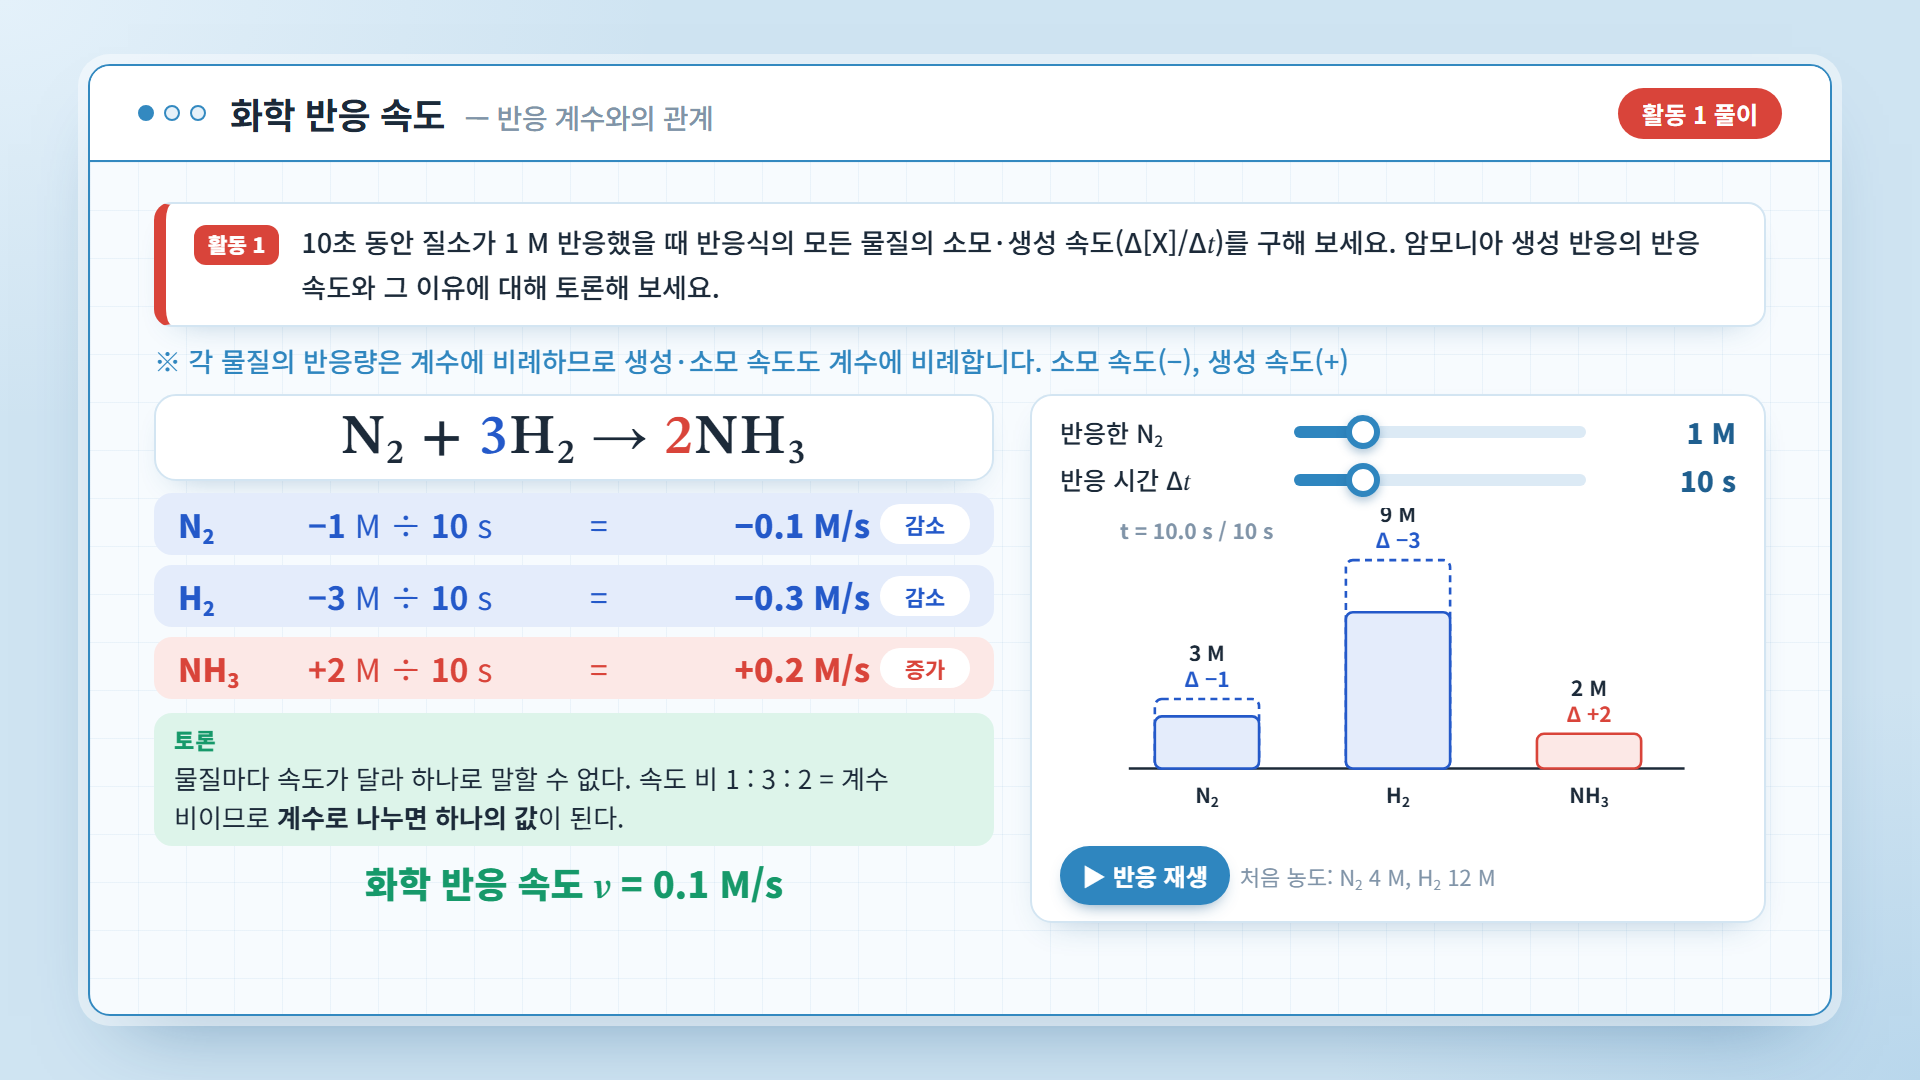
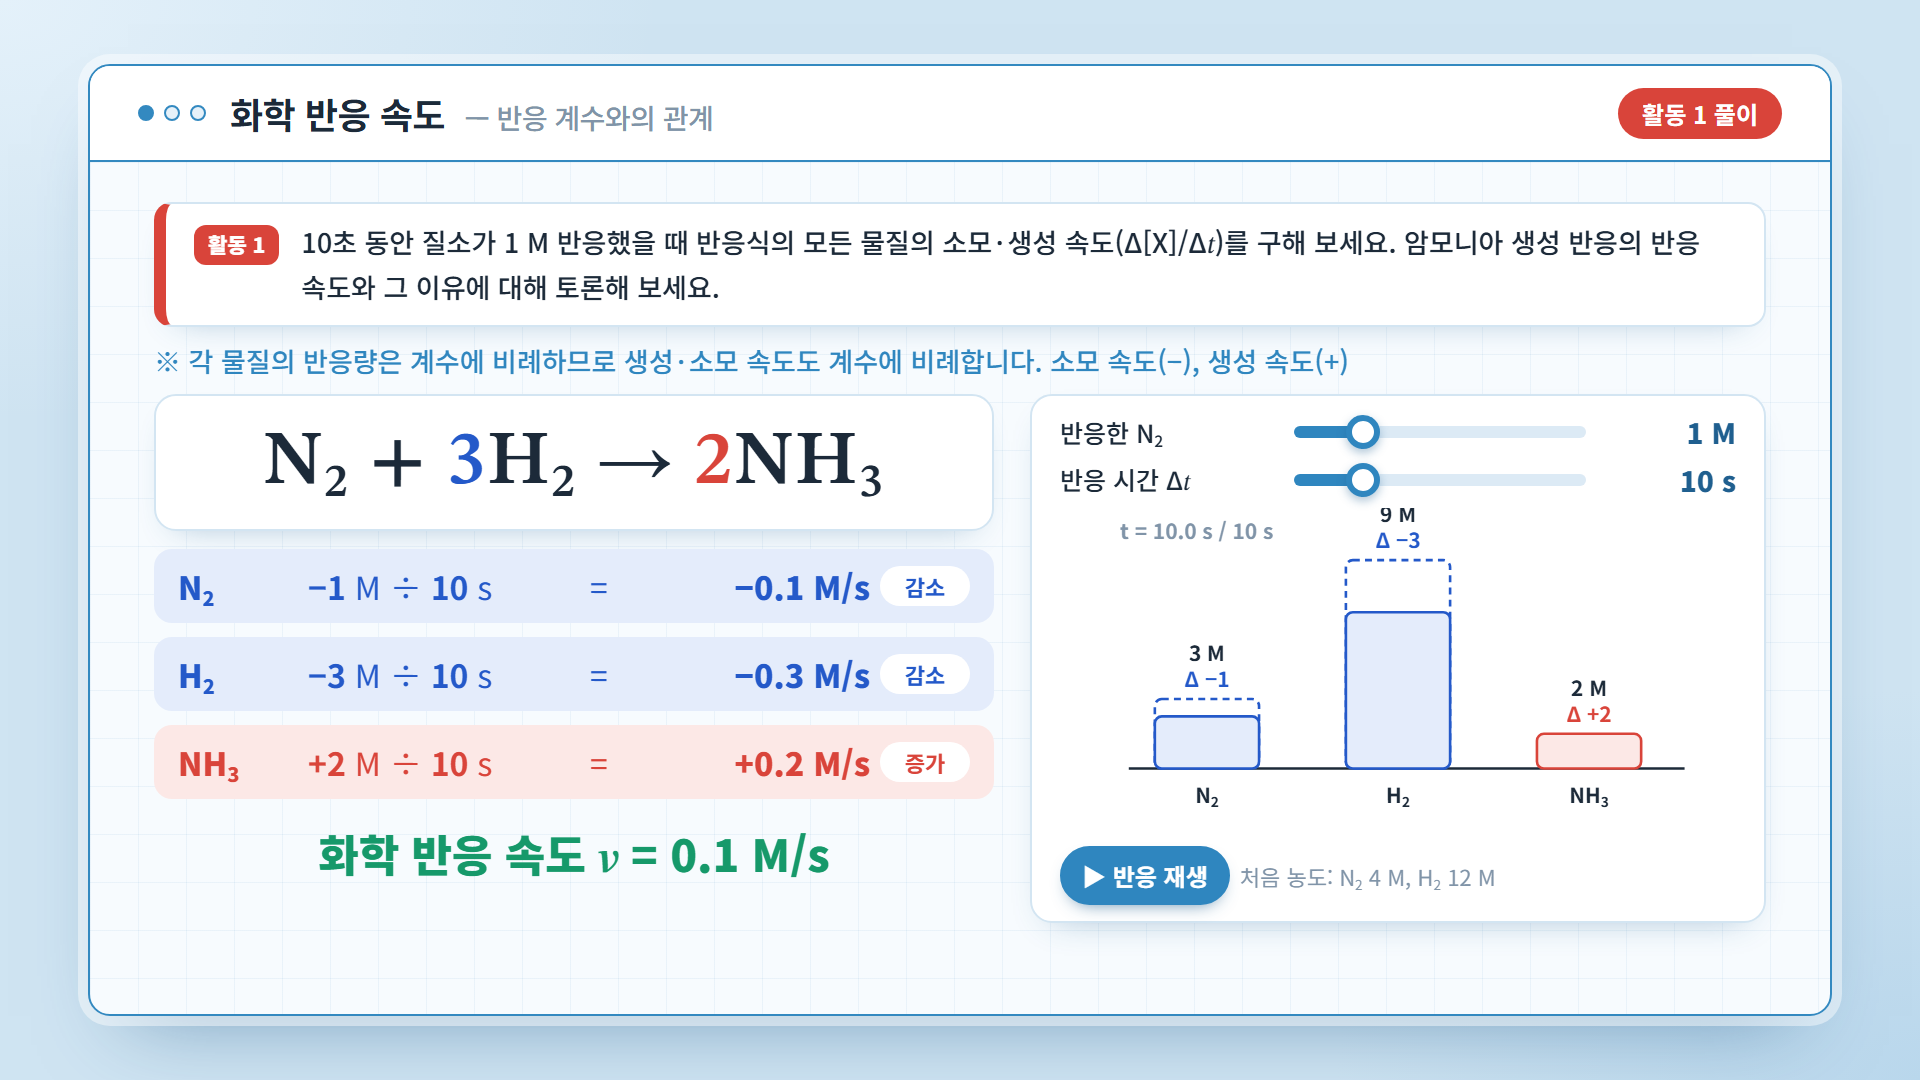
reaction-rate: 활동 1 풀이에서 토론 답 삭제 (v = 0.1 유지)

Changed region(s): [[0.0625, 0.3667, 0.5312, 0.8556]]

diff --git a/reaction-rate-lesson/index.html b/reaction-rate-lesson/index.html
@@ -203,9 +203,6 @@
   .rrow .mini { font-size: 22px; font-weight: 700; text-align: center; border-radius: 999px; padding: 4px 0; background: #fff; }
   .ctlcard { padding: 22px 28px; display: flex; flex-direction: column; gap: 14px; }
   #act1-a .nh3-grid { margin-top: 14px; }
-  #act1-a .eqcard { font-size: 56px; padding: 6px; }
-  #act1-a .rrows { gap: 10px; margin-top: 12px; }
-  #act1-a .rrow { padding: 8px 24px; }
   #act1-a .ctlcard { padding: 16px 28px; gap: 8px; }
 
   /* ---------- slide 7 ---------- */
@@ -532,8 +529,7 @@
             <div class="rrow cons" data-step="2 rise"><span class="sp">H<sub>2</sub></span><span><b data-nh3="d1">−3</b> M ÷ <b data-nh3="t">10</b> s</span><span>=</span><span class="res cons" data-nh3="r1">−0.3 M/s</span><span class="mini cons">감소</span></div>
             <div class="rrow prod" data-step="3 rise"><span class="sp">NH<sub>3</sub></span><span><b data-nh3="d2">+2</b> M ÷ <b data-nh3="t">10</b> s</span><span>=</span><span class="res prod" data-nh3="r2">+0.2 M/s</span><span class="mini prod">증가</span></div>
           </div>
-          <div class="find f3" data-step="4 rise" style="margin-top:14px;padding:10px 20px"><span class="t">토론</span>물질마다 속도가 달라 하나로 말할 수 없다. 속도 비 1 : 3 : 2 = 계수 비이므로 <b>계수로 나누면 하나의 값</b>이 된다.</div>
-          <p data-step="5 pop" style="margin-top:10px;font-size:36px;font-weight:900;text-align:center;color:var(--green)">화학 반응 속도 <i class="m">v</i> = <span data-nh3="v">0.1 M/s</span></p>
+          <p data-step="4 pop" style="margin-top:22px;font-size:44px;font-weight:900;text-align:center;color:var(--green)">화학 반응 속도 <i class="m">v</i> = <span data-nh3="v">0.1 M/s</span></p>
         </div>
         <div class="card ctlcard">
           <div class="slider"><span>반응한 N<sub>2</sub></span><input type="range" id="nh3-dn" min="0.5" max="3" step="0.5" value="1"><output id="nh3-dn-o">1 M</output></div>
@@ -544,7 +540,7 @@
       </div>
     </div>
   </div>
-  <aside>[활동 1 풀이] 클릭할 때마다 N₂, H₂, NH₃의 속도, 토론 정리, 반응 속도 순서로 나옵니다. 오른쪽 슬라이더로 반응량과 시간을 바꾸면 왼쪽 계산이 함께 바뀌어요. 어떤 값을 넣어도 속도 비는 항상 1 : 3 : 2라는 점을 확인시키세요.</aside>
+  <aside>[활동 1 풀이] 클릭할 때마다 N₂, H₂, NH₃의 속도, 반응 속도 순서로 나옵니다. 토론은 학생들의 답을 먼저 들어 보세요. 오른쪽 슬라이더로 반응량과 시간을 바꾸면 왼쪽 계산이 함께 바뀌어요. 어떤 값을 넣어도 속도 비는 항상 1 : 3 : 2라는 점을 확인시키세요.</aside>
 </section>
 
 <!-- 7 -->
